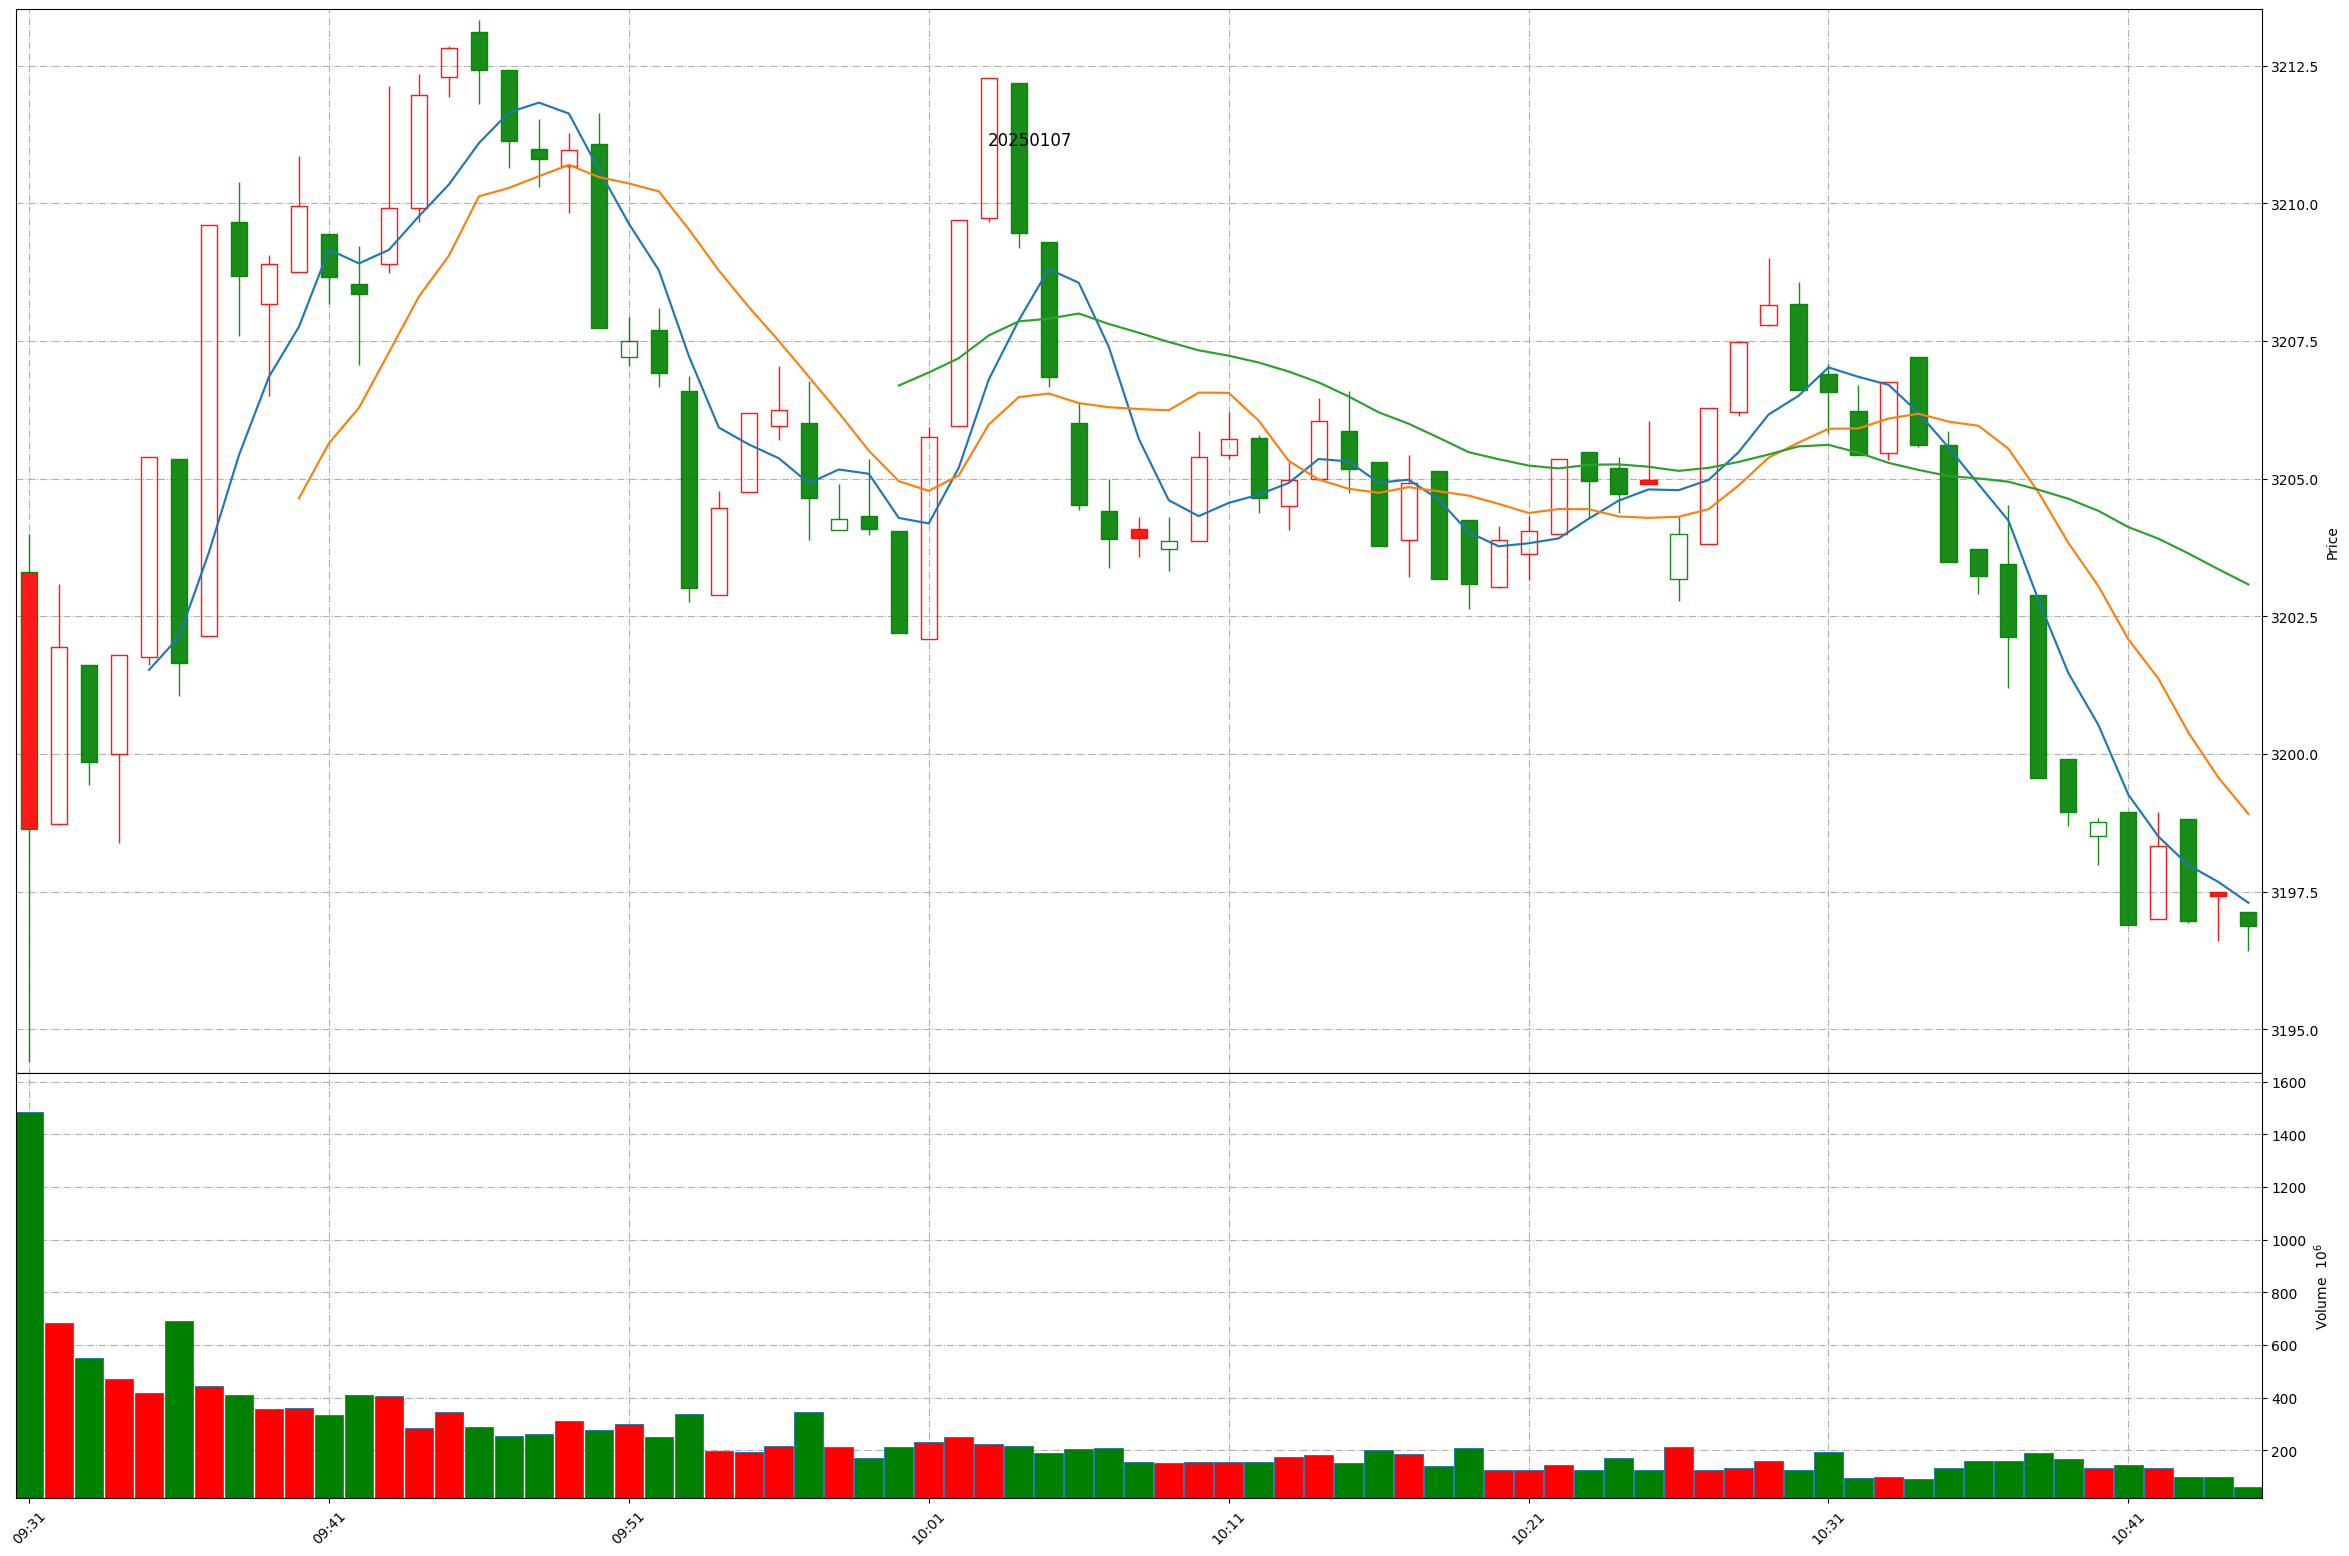
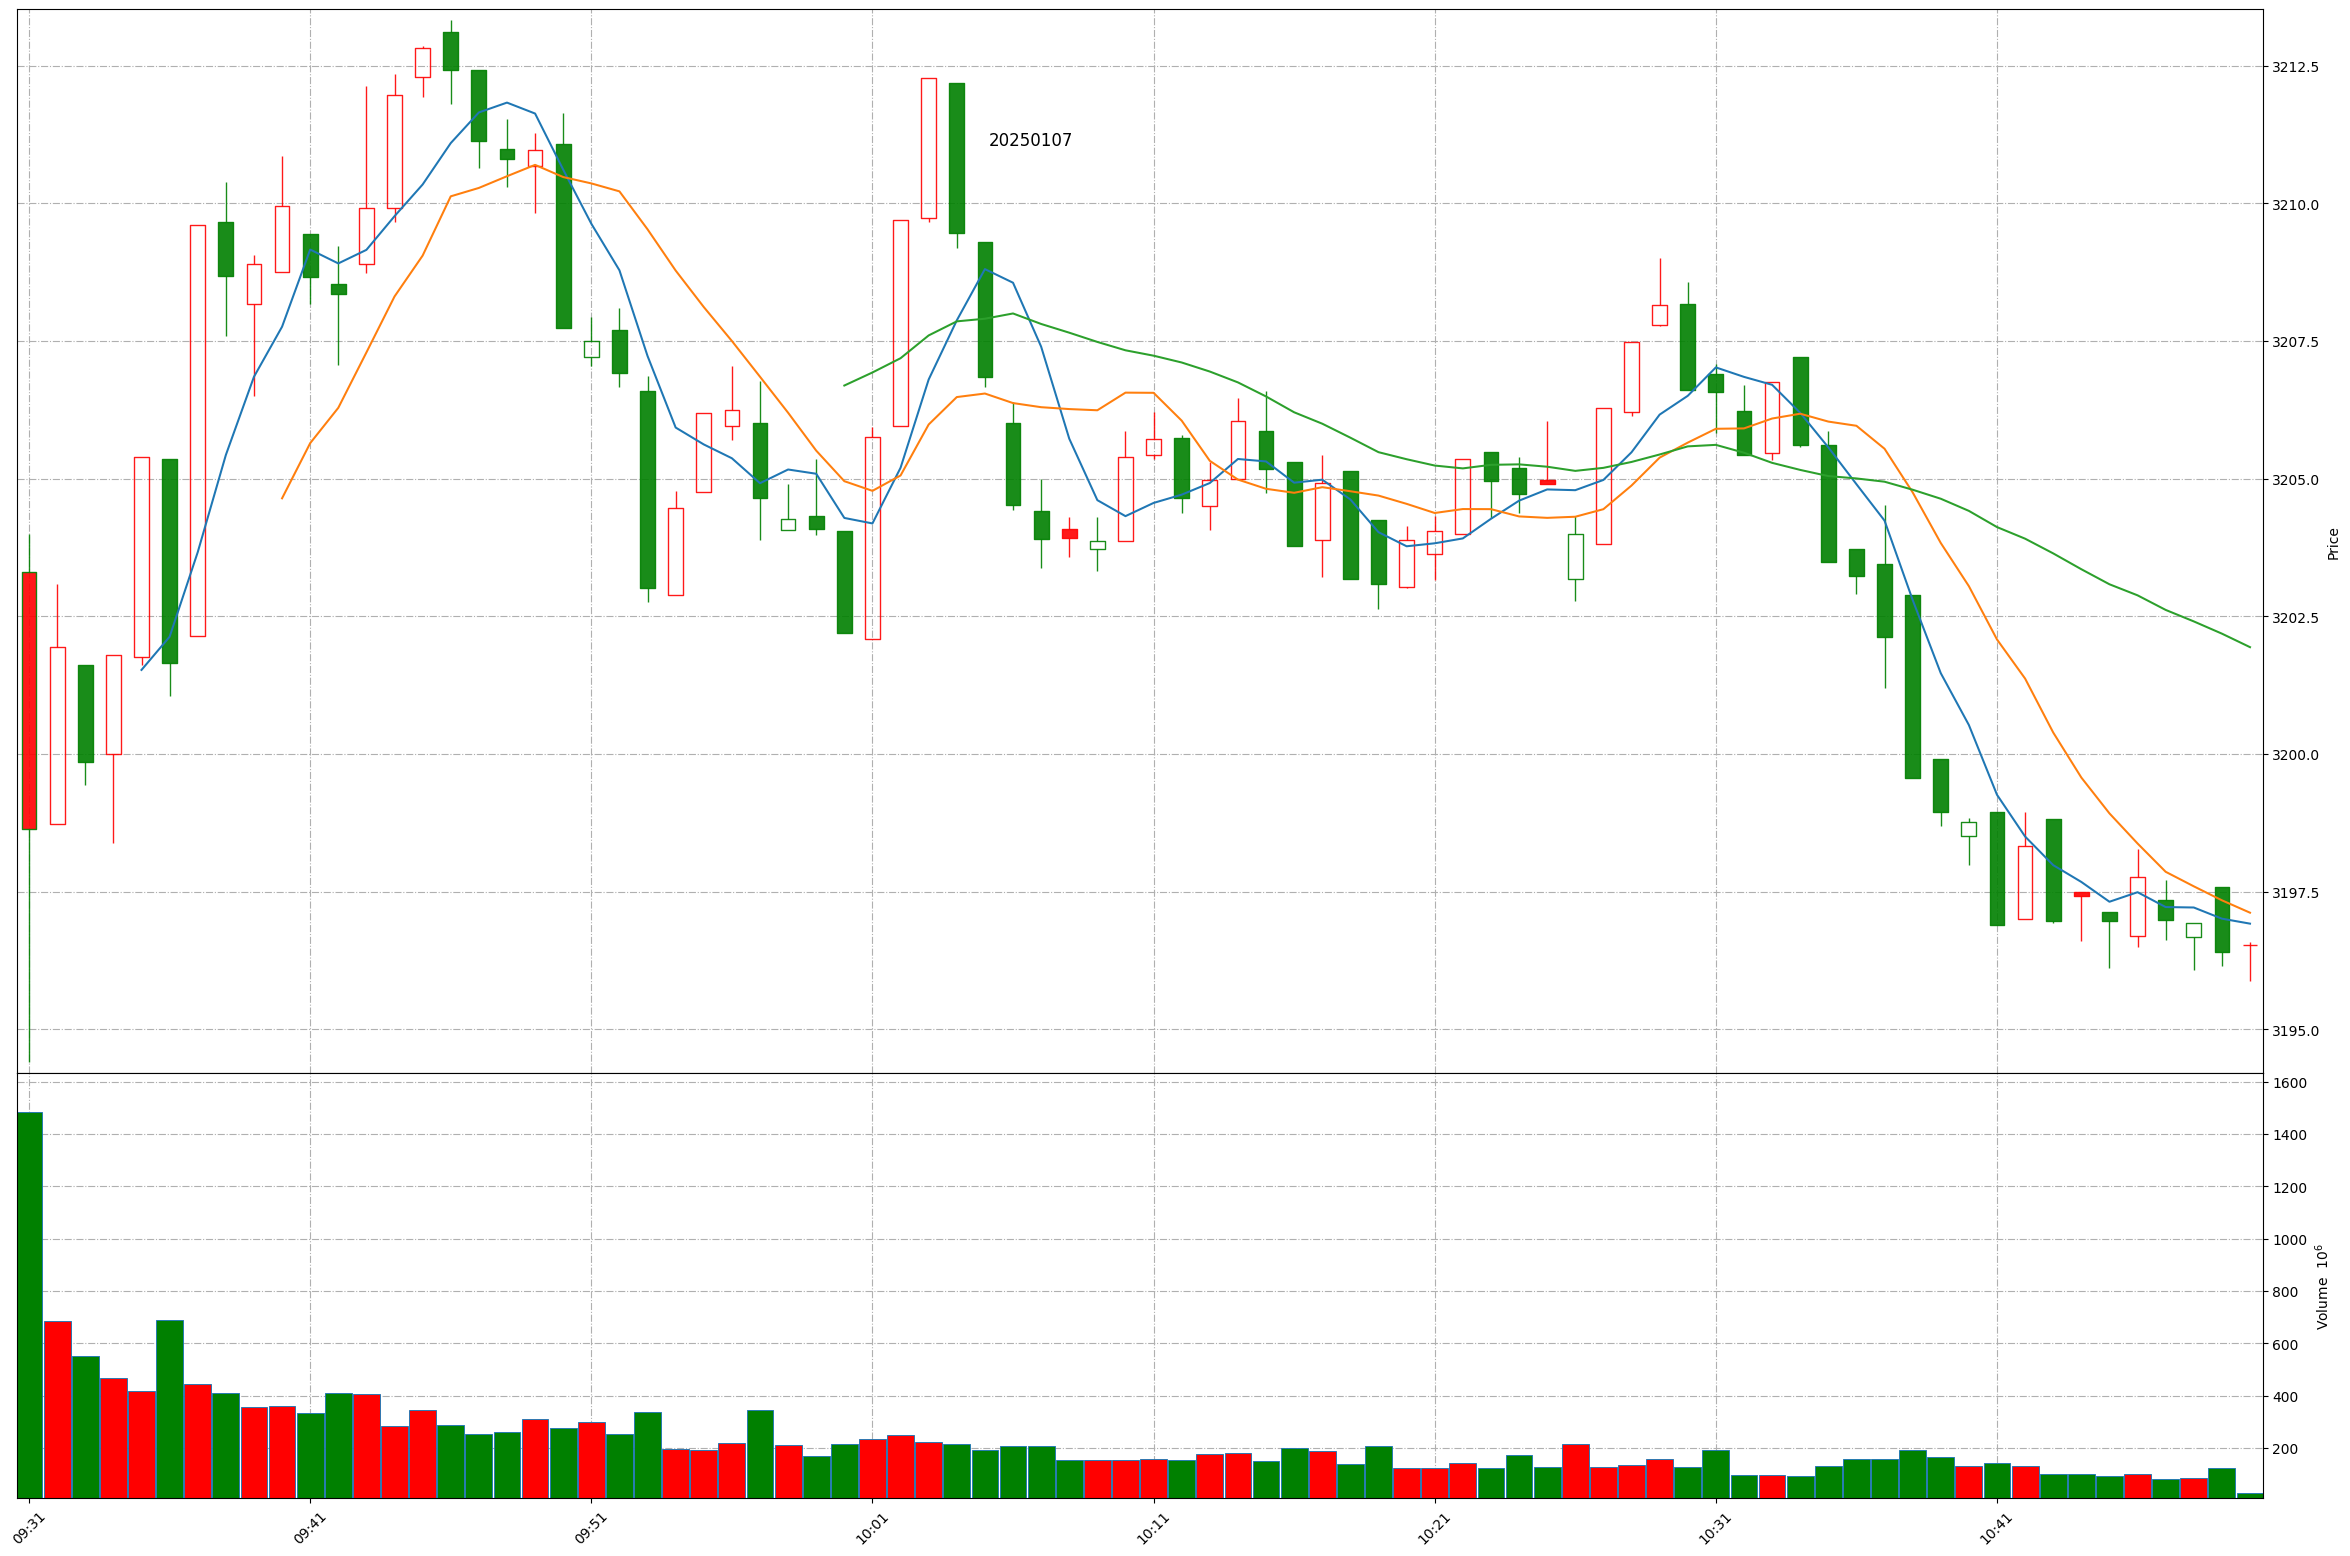
Github action update at 2025-01-07 10:49:53.

Changed region(s): [[0.0, 0.0, 0.9634, 0.617], [0.0, 0.8329, 0.9634, 0.9871]]

diff --git a/README.md b/README.md
@@ -1,11 +1,11 @@
 
 # Daily-A-share-market-quotes 每日 A 股指数（5min 更新）- 20250107
 
-### 上证指数 20250107 10:44
+### 上证指数 20250107 10:49
 ![](./fig/2025/1/20250107-sh000001.png)
 
-### 深证成指 20250107 10:44
+### 深证成指 20250107 10:49
 ![](./fig/2025/1/20250107-sz399001.png)
 
-### 北证50 20250107 10:44
+### 北证50 20250107 10:49
 ![](./fig/2025/1/20250107-bj899050.png)
